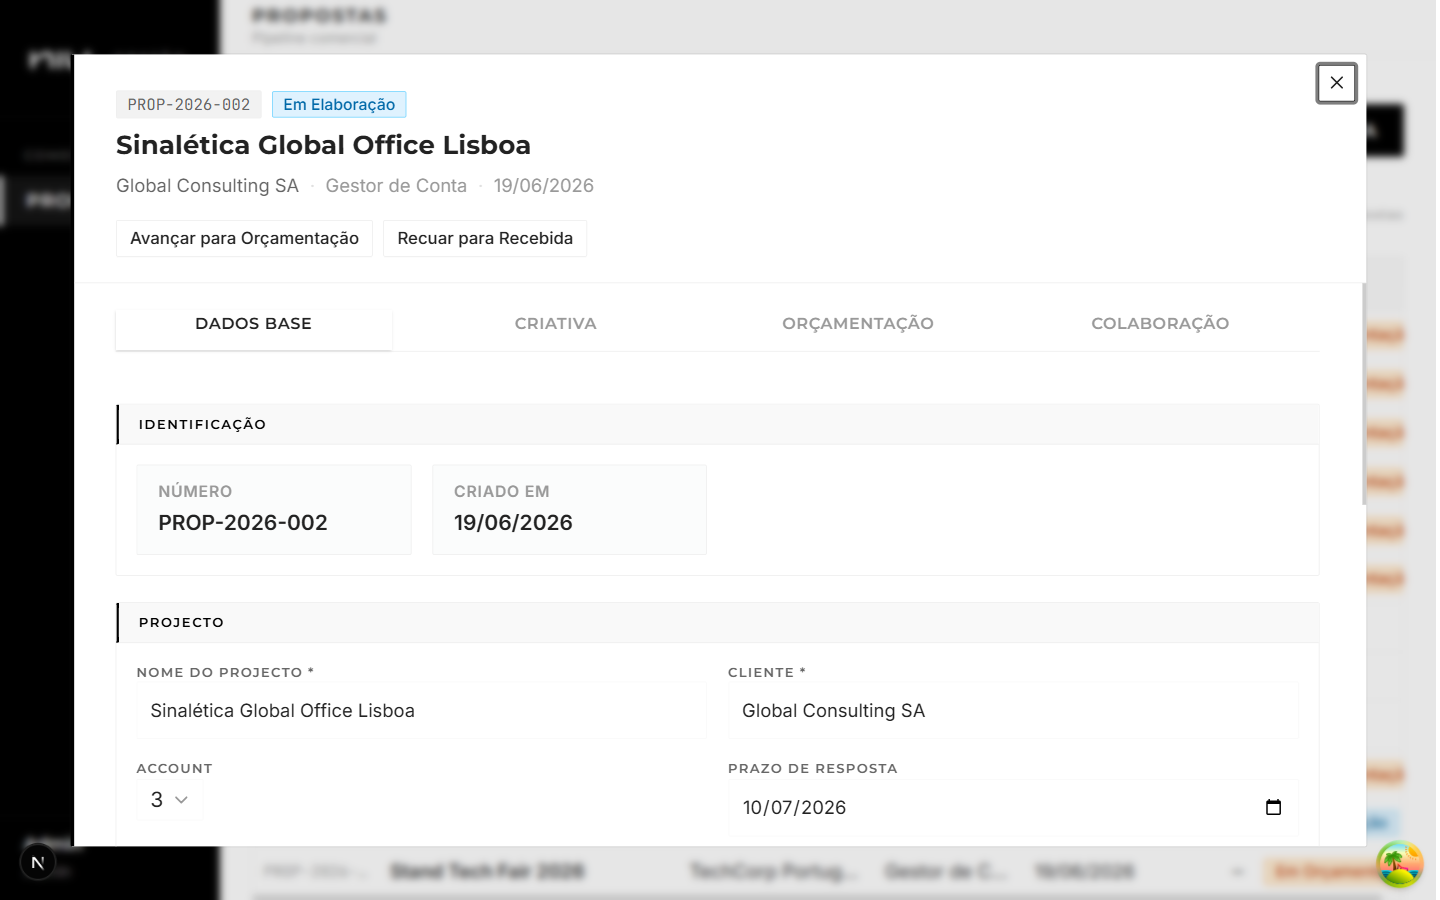
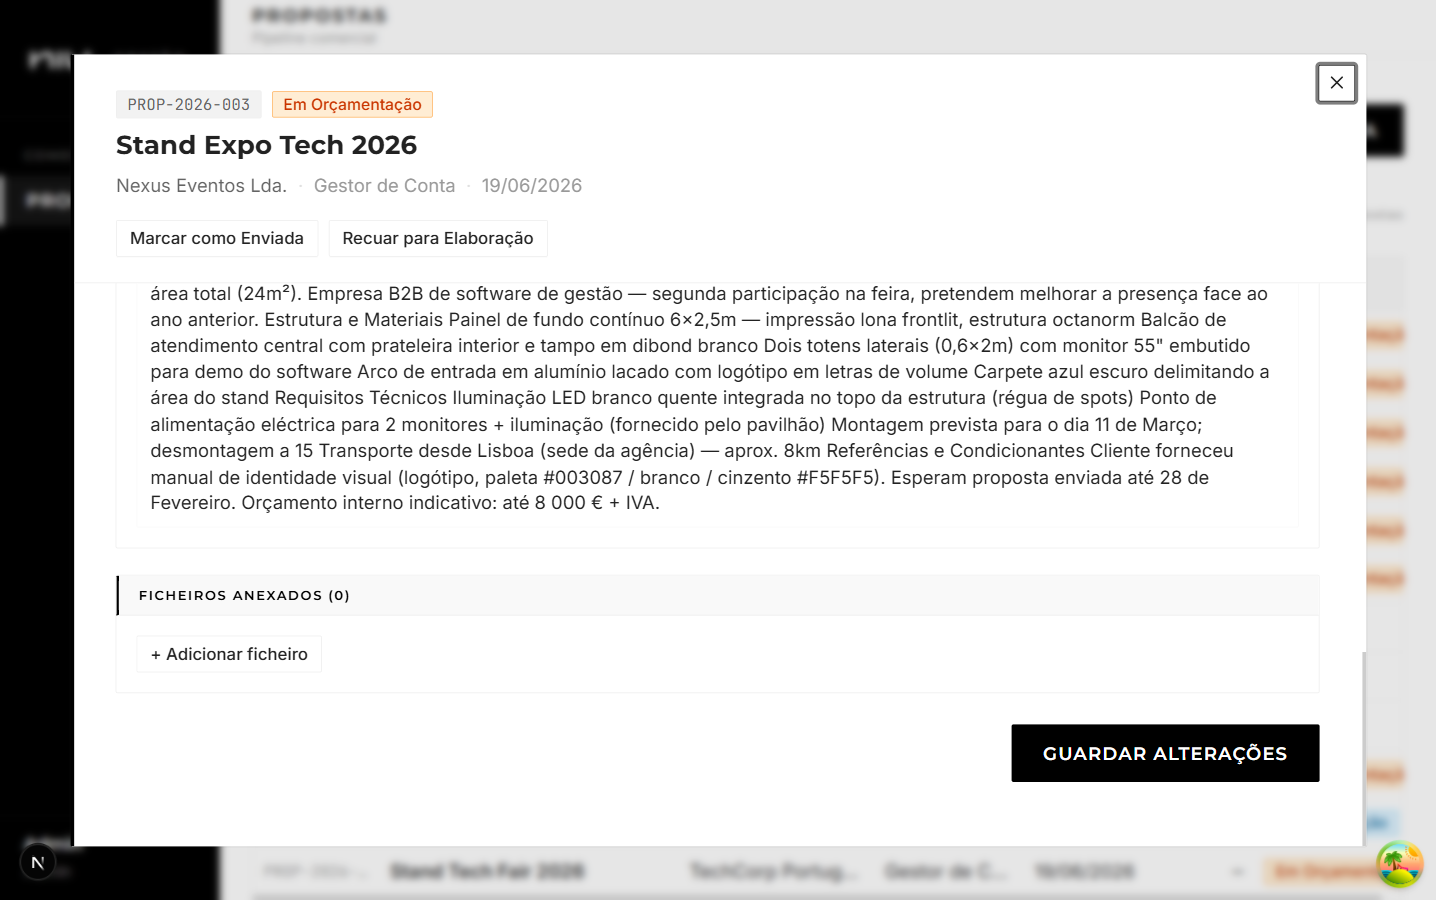
Update screenshots — rich proposal content, split budgeting views
Add briefing and memoriacriativa content to demo proposal via update script.
Retake all screenshots using Stand Expo Tech 2026 for single-proposal views.
budgeting-tab now shows top (confiança badge + abordagem técnica);
estimate-chat shows bottom (estimate totals + AI chat input).

diff --git a/scripts/take-screenshots.ts b/scripts/take-screenshots.ts
@@ -5,6 +5,9 @@ import * as fs from 'fs'
 const BASE = 'http://localhost:3000'
 const OUT = path.join(process.cwd(), 'docs/screenshots')
 
+// The proposal used for all single-proposal screenshots
+const DEMO_PROPOSAL = 'Stand Expo Tech 2026'
+
 async function main() {
   fs.mkdirSync(OUT, { recursive: true })
 
@@ -32,56 +35,59 @@ async function main() {
   await page.screenshot({ path: `${OUT}/payload-admin.png` })
   console.log('✓ payload-admin.png')
 
-  // ── Helper: open drawer for a specific proposal estado ──────────────────────
-  const estadoBadgeText = (estado: string): string => ({
-    Recebida: 'Recebida',
-    EmElaboracao: 'Em Elaboração',
-    EmOrcamentacao: 'Em Orçamentação',
-    Enviada: 'Enviada',
-    Ganha: 'Ganha',
-    Perdida: 'Perdida',
-  }[estado] ?? estado)
-
-  const openProposalByEstado = async (estado: string): Promise<boolean> => {
+  // ── Helper: go to propostas and wait for table ───────────────────────────────
+  const goToList = async () => {
     await page.goto(`${BASE}/propostas`)
     await page.waitForLoadState('networkidle')
-    // Wait for TanStack Query to load data
     await page.waitForSelector('text=PROP-', { timeout: 15000 })
+  }
+
+  // ── Helper: open DEMO_PROPOSAL drawer ───────────────────────────────────────
+  const openDemoProposal = async () => {
+    await goToList()
     const rows = page.locator('table tbody tr')
     const count = await rows.count()
-    const label = estadoBadgeText(estado)
     for (let i = 0; i < count; i++) {
       const row = rows.nth(i)
       const text = await row.textContent()
-      if (text?.includes(label)) {
+      if (text?.includes(DEMO_PROPOSAL)) {
         await row.click()
         await page.waitForSelector('[role="dialog"]', { timeout: 5000 })
         await page.waitForTimeout(500)
-        return true
+        return
       }
     }
-    return false
+    throw new Error(`Proposal "${DEMO_PROPOSAL}" not found in table`)
+  }
+
+  // ── Helper: scroll the drawer's overflow container ──────────────────────────
+  const scrollDrawer = async (position: 'top' | 'bottom') => {
+    await page.evaluate((pos) => {
+      // The dialog content div is the scroll container
+      const container =
+        document.querySelector('[role="dialog"] [data-radix-scroll-area-viewport]') ??
+        document.querySelector('[role="dialog"] .overflow-y-auto') ??
+        document.querySelector('[role="dialog"] > div > div')
+      if (!container) return
+      if (pos === 'top') container.scrollTop = 0
+      else container.scrollTop = container.scrollHeight
+    }, position)
+    await page.waitForTimeout(300)
   }
 
   // ── 4. Proposals list ───────────────────────────────────────────────────────
-  await page.goto(`${BASE}/propostas`)
-  await page.waitForLoadState('networkidle')
-  await page.waitForSelector('text=PROP-', { timeout: 15000 })
+  await goToList()
   await page.screenshot({ path: `${OUT}/proposals-list.png` })
   console.log('✓ proposals-list.png')
 
-  // ── 5. Proposal drawer (dados tab) ──────────────────────────────────────────
-  await openProposalByEstado('EmElaboracao')
+  // ── 5. Proposal drawer — dados base tab ─────────────────────────────────────
+  await openDemoProposal()
+  await scrollDrawer('top')
   await page.screenshot({ path: `${OUT}/proposal-drawer.png` })
   console.log('✓ proposal-drawer.png')
 
   // ── 6. State selector ───────────────────────────────────────────────────────
-  // Scroll down inside the drawer to where StateSelector renders
-  await page.evaluate(() => {
-    const btn = Array.from(document.querySelectorAll('button')).find(b => b.textContent?.includes('Avançar') || b.textContent?.includes('Iniciar'))
-    btn?.scrollIntoView({ behavior: 'instant', block: 'center' })
-  })
-  await page.waitForTimeout(300)
+  await scrollDrawer('bottom')
   await page.screenshot({ path: `${OUT}/state-selector.png` })
   console.log('✓ state-selector.png')
 
@@ -90,9 +96,10 @@ async function main() {
   await page.waitForTimeout(400)
 
   // ── 7. Creative zone tab ────────────────────────────────────────────────────
-  await openProposalByEstado('EmElaboracao')
+  await openDemoProposal()
   await page.click('button[role="tab"]:has-text("Criativa")')
   await page.waitForTimeout(600)
+  await scrollDrawer('top')
   await page.screenshot({ path: `${OUT}/creative-zone.png` })
   console.log('✓ creative-zone.png')
 
@@ -100,40 +107,30 @@ async function main() {
   await page.keyboard.press('Escape')
   await page.waitForTimeout(400)
 
-  // ── 8. Budgeting tab — wait for estimate to be fully rendered ────────────────
-  const opened = await openProposalByEstado('EmOrcamentacao')
-  if (opened) {
-    await page.click('button[role="tab"]:has-text("Orçamentação")')
-    // Wait for the estimate to appear — could be loading from AI or already present
-    console.log('  Waiting for estimate to load...')
-    await page.waitForFunction(
-      () => {
-        // Check for any visible monetary value (€) in the tab content
-        const dialog = document.querySelector('[role="dialog"]')
-        return dialog && (
-          dialog.textContent?.includes('Total Geral') ||
-          dialog.textContent?.includes('total_geral') ||
-          dialog.textContent?.includes('Total:') ||
-          (dialog.querySelector('.font-mono') !== null)
-        )
-      },
-      { timeout: 300000 },
-    ).catch(() => console.warn('  Warning: estimate may not be fully loaded'))
-    await page.waitForTimeout(1000)
-    await page.screenshot({ path: `${OUT}/budgeting-tab.png` })
-    console.log('✓ budgeting-tab.png')
+  // ── 8. Budgeting tab — TOP: confiança badge + abordagem técnica ──────────────
+  await openDemoProposal()
+  await page.click('button[role="tab"]:has-text("Orçamentação")')
 
-    // ── 9. Estimate chat ─────────────────────────────────────────────────────
-    await page.evaluate(() => {
-      const textarea = document.querySelector('textarea')
-      textarea?.scrollIntoView({ behavior: 'instant', block: 'center' })
-    })
-    await page.waitForTimeout(400)
-    await page.screenshot({ path: `${OUT}/estimate-chat.png` })
-    console.log('✓ estimate-chat.png')
-  } else {
-    console.warn('⚠ No EmOrcamentacao proposal found — budgeting screenshots skipped')
-  }
+  // Wait for estimate to be fully rendered
+  console.log('  Waiting for estimate to load...')
+  await page.waitForFunction(
+    () => {
+      const dialog = document.querySelector('[role="dialog"]')
+      return dialog?.textContent?.includes('Confiança') || dialog?.textContent?.includes('Total Geral')
+    },
+    { timeout: 300000 },
+  ).catch(() => console.warn('  Warning: estimate may not have loaded fully'))
+
+  await page.waitForTimeout(800)
+  await scrollDrawer('top')
+  await page.screenshot({ path: `${OUT}/budgeting-tab.png` })
+  console.log('✓ budgeting-tab.png')
+
+  // ── 9. Estimate chat — BOTTOM: last estimate items + chat input ──────────────
+  await scrollDrawer('bottom')
+  await page.waitForTimeout(300)
+  await page.screenshot({ path: `${OUT}/estimate-chat.png` })
+  console.log('✓ estimate-chat.png')
 
   await browser.close()
   console.log('\nAll screenshots saved to docs/screenshots/')

diff --git a/scripts/update-demo-proposal.ts b/scripts/update-demo-proposal.ts
@@ -1,0 +1,110 @@
+import 'dotenv/config'
+import dotenv from 'dotenv'
+import { getPayload } from 'payload'
+import config from '@payload-config'
+
+dotenv.config({ path: '.env.local', override: true })
+
+const p = (text: string) => ({
+  children: [{ detail: 0, format: 0, mode: 'normal', style: '', text, type: 'text', version: 1 }],
+  direction: 'ltr', format: '', indent: 0, type: 'paragraph', version: 1, textFormat: 0, textStyle: '',
+})
+
+const h2 = (text: string) => ({
+  children: [{ detail: 0, format: 0, mode: 'normal', style: '', text, type: 'text', version: 1 }],
+  direction: 'ltr', format: '', indent: 0, tag: 'h2', type: 'heading', version: 1,
+})
+
+const li = (text: string) => ({
+  children: [{ detail: 0, format: 0, mode: 'normal', style: '', text, type: 'text', version: 1 }],
+  direction: 'ltr', format: '', indent: 0, type: 'listitem', value: 1, version: 1,
+})
+
+const ul = (items: string[]) => ({
+  children: items.map(li),
+  direction: 'ltr', format: '', indent: 0, listType: 'bullet', start: 1, tag: 'ul', type: 'list', version: 1,
+})
+
+const lexical = (...nodes: object[]) => ({
+  root: { children: nodes, direction: 'ltr', format: '', indent: 0, type: 'root', version: 1 },
+})
+
+const BRIEFING = lexical(
+  h2('Contexto do Projecto'),
+  p('Stand para a Tech Fair Lisboa 2026 (Pavilhão Atlântico, 12–14 de Março). Posição de esquina com 6×4m de área total (24m²). Empresa B2B de software de gestão — segunda participação na feira, pretendem melhorar a presença face ao ano anterior.'),
+
+  h2('Estrutura e Materiais'),
+  ul([
+    'Painel de fundo contínuo 6×2,5m — impressão lona frontlit, estrutura octanorm',
+    'Balcão de atendimento central com prateleira interior e tampo em dibond branco',
+    'Dois totens laterais (0,6×2m) com monitor 55" embutido para demo do software',
+    'Arco de entrada em alumínio lacado com logótipo em letras de volume',
+    'Carpete azul escuro delimitando a área do stand',
+  ]),
+
+  h2('Requisitos Técnicos'),
+  ul([
+    'Iluminação LED branco quente integrada no topo da estrutura (régua de spots)',
+    'Ponto de alimentação eléctrica para 2 monitores + iluminação (fornecido pelo pavilhão)',
+    'Montagem prevista para o dia 11 de Março; desmontagem a 15',
+    'Transporte desde Lisboa (sede da agência) — aprox. 8km',
+  ]),
+
+  h2('Referências e Condicionantes'),
+  p('Cliente forneceu manual de identidade visual (logótipo, paleta #003087 / branco / cinzento #F5F5F5). Esperam proposta enviada até 28 de Fevereiro. Orçamento interno indicativo: até 8 000 € + IVA.'),
+)
+
+const MEMORIA = lexical(
+  h2('Conceito Criativo'),
+  p('Stand de presença premium assente na linha "Technology meets clarity" — espaço limpo, profissional e tecnologicamente coerente com o produto que o cliente vende. Estrutura sóbria que deixa o software ser o protagonista.'),
+
+  h2('Paleta e Acabamentos'),
+  ul([
+    'Fundo: branco puro com apontamentos em azul navy (#003087) — cor principal da marca',
+    'Arco de entrada: alumínio lacado azul navy com letras de volume em branco',
+    'Tampo do balcão: dibond branco com serigrafia do logótipo a azul',
+    'Carpete: cinzento antracite (referência 7016) para contrastar com o painel branco',
+  ]),
+
+  h2('Tipografia e Gráficos'),
+  p('Painel de fundo com fotografia de lifestyle tech (lifestyle_studio_03.jpg fornecida pelo cliente), logótipo centrado a 2,0m de altura, claim "Gere mais. Cresce mais." em Gilroy SemiBold 96pt branco.'),
+
+  h2('Funcionamento do Espaço'),
+  ul([
+    'Balcão frontal para 2 colaboradores + espaço de arrumação interior fechado',
+    'Totens laterais: demo activa do software com ecrã táctil — requer suporte de parede encastrado no totem',
+    'Zona aberta no centro para recepção de visitantes sem barreira física',
+    'Iluminação direccionada sobre o balcão (3 spots) e régua LED no topo do painel traseiro',
+  ]),
+
+  h2('Estado e Notas de Aprovação'),
+  p('Arte final do painel traseiro aprovada a 15 de Janeiro. Logótipo e claim confirmados. Pendente: imagem lifestyle em alta resolução (mín. 300dpi para 6m de largura — cliente a aguardar aprovação interna do departamento de marketing).'),
+)
+
+async function main() {
+  const payload = await getPayload({ config })
+
+  const found = await payload.find({
+    collection: 'proposals',
+    where: { nomeProjeto: { equals: 'Stand Expo Tech 2026' } },
+    limit: 1,
+    overrideAccess: true,
+  })
+
+  if (found.totalDocs === 0) {
+    console.error('Proposal "Stand Expo Tech 2026" not found — run seed first')
+    process.exit(1)
+  }
+
+  await payload.update({
+    collection: 'proposals',
+    id: found.docs[0].id,
+    data: { briefing: BRIEFING, memoriacriativa: MEMORIA } as object,
+    overrideAccess: true,
+  })
+
+  console.log('✓ Updated "Stand Expo Tech 2026" with rich briefing and memoriacriativa')
+  process.exit(0)
+}
+
+main().catch((e) => { console.error(e); process.exit(1) })
